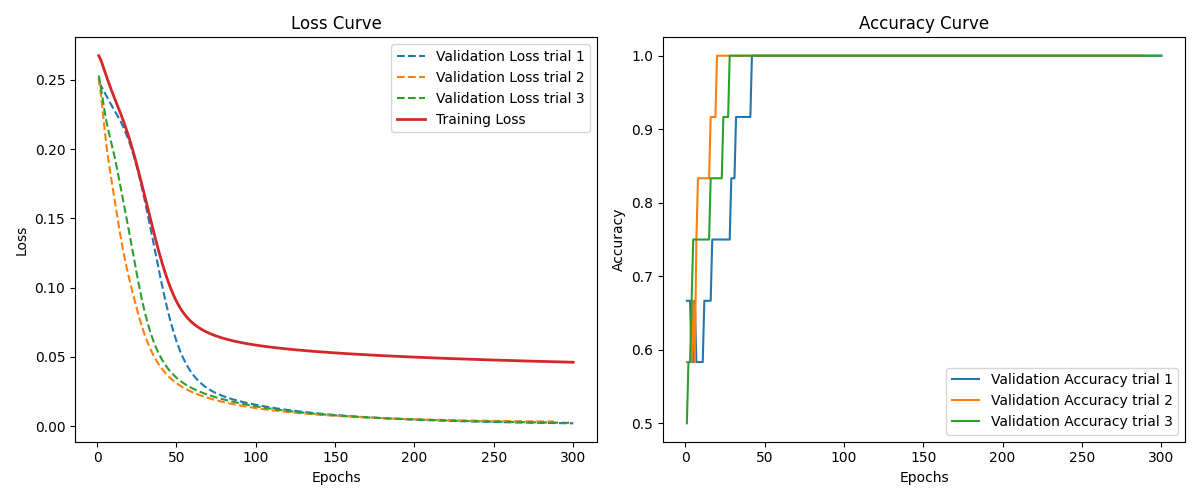
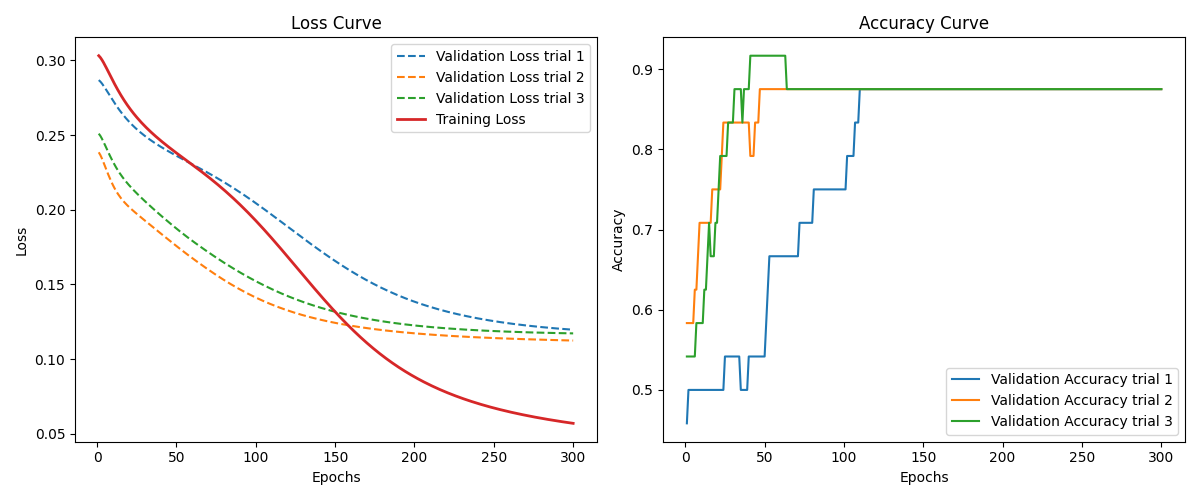
Monk 3 model

diff --git a/src/utils/hyperparameters_grid.py b/src/utils/hyperparameters_grid.py
@@ -189,11 +189,11 @@ fine_grid_monk_3 = {
     "n_unit": (5,5,1), # (min, max, num_steps)
     "a_fun": [Act_Tanh()],
     "learning_rate": (0.0008, 0.002, 10),
-    # "learning_rate_decay_max": (0.045, 0.05, 3),
-    # "learning_rate_decay_epochs": (85, 85, 1),
-    # "learning_rate_decay_min": (0.0006, 0.00075, 3),
-    "lambd": (0.00002, 0.0005, 12),
-    "lambd_type": [L2, L1],
+    "learning_rate_decay_max": (0.0008, 0.002, 8),
+    "learning_rate_decay_epochs": (60, 60, 1),
+    "learning_rate_decay_min": (0.0005, 0.00075, 5),
+    "lambd": (0.00002, 0.0001, 10),
+    "lambd_type": [L1],
     "momentum": (0.75, 0.75, 1),
     'patience': [10],
     'batch_size': [-1],

diff --git a/test/monk_3/k_fold_monk_3.py b/test/monk_3/k_fold_monk_3.py
@@ -25,7 +25,7 @@ x_test = feature_one_hot_encoding(x_test, [3,3,2,3,4,2])
 n_in = np.size(x[1])
 n_out = 1
 
-val_size = 0.1
+val_size = 0.2
 
 split_type = "stratified"
 search_type = "fine"   
